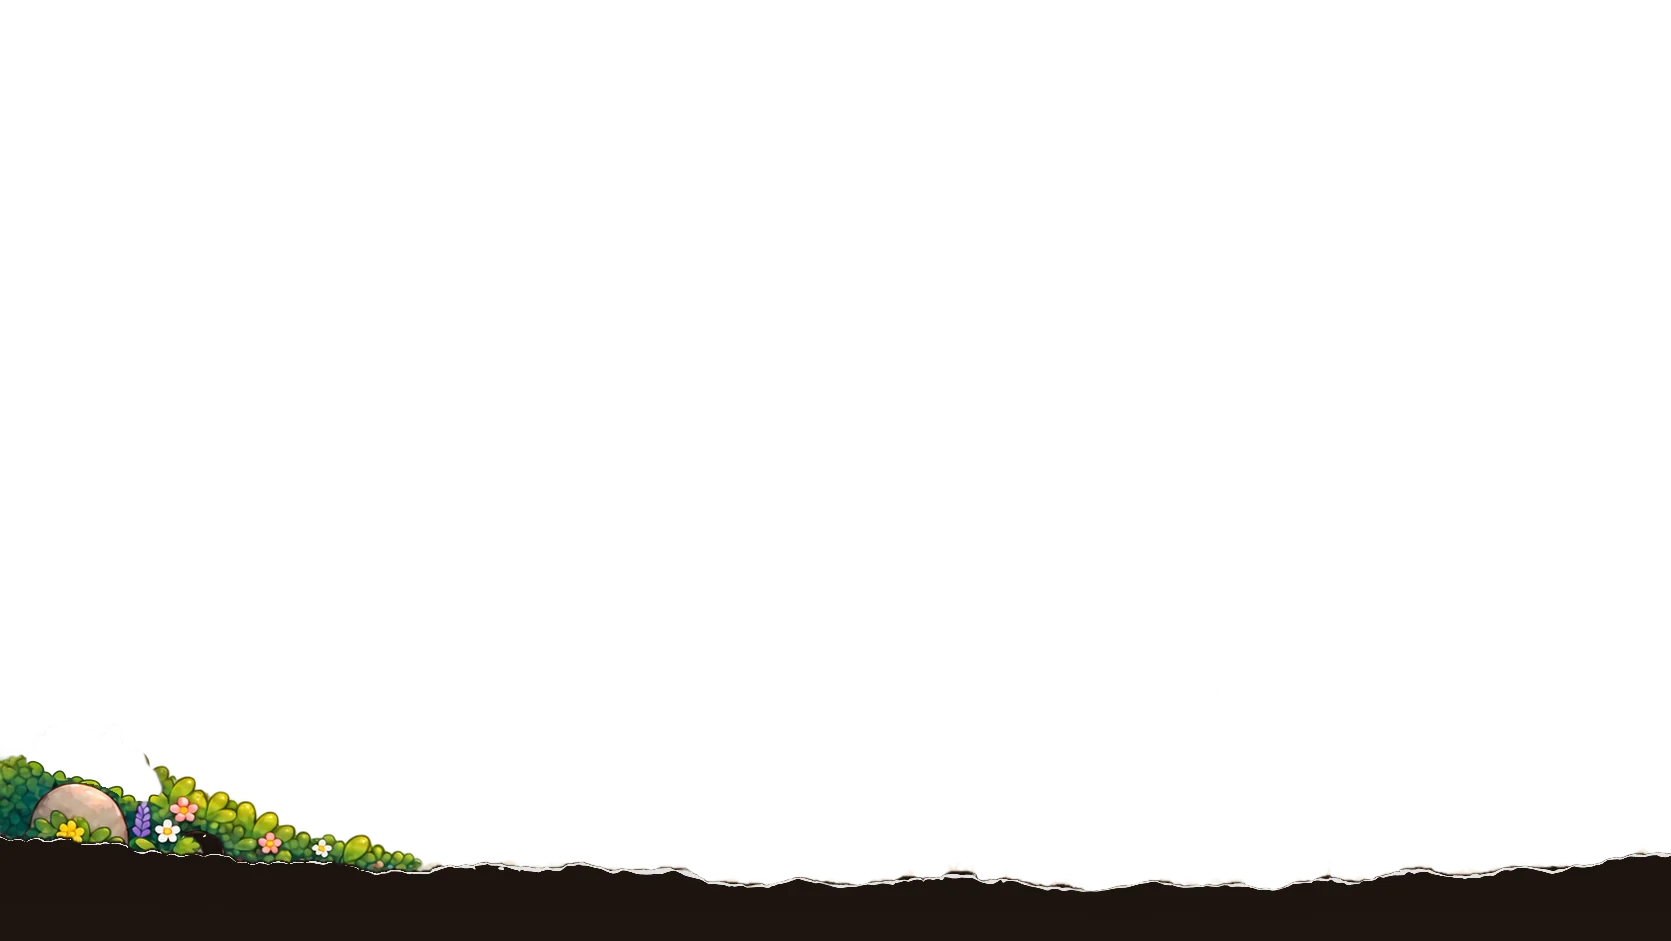
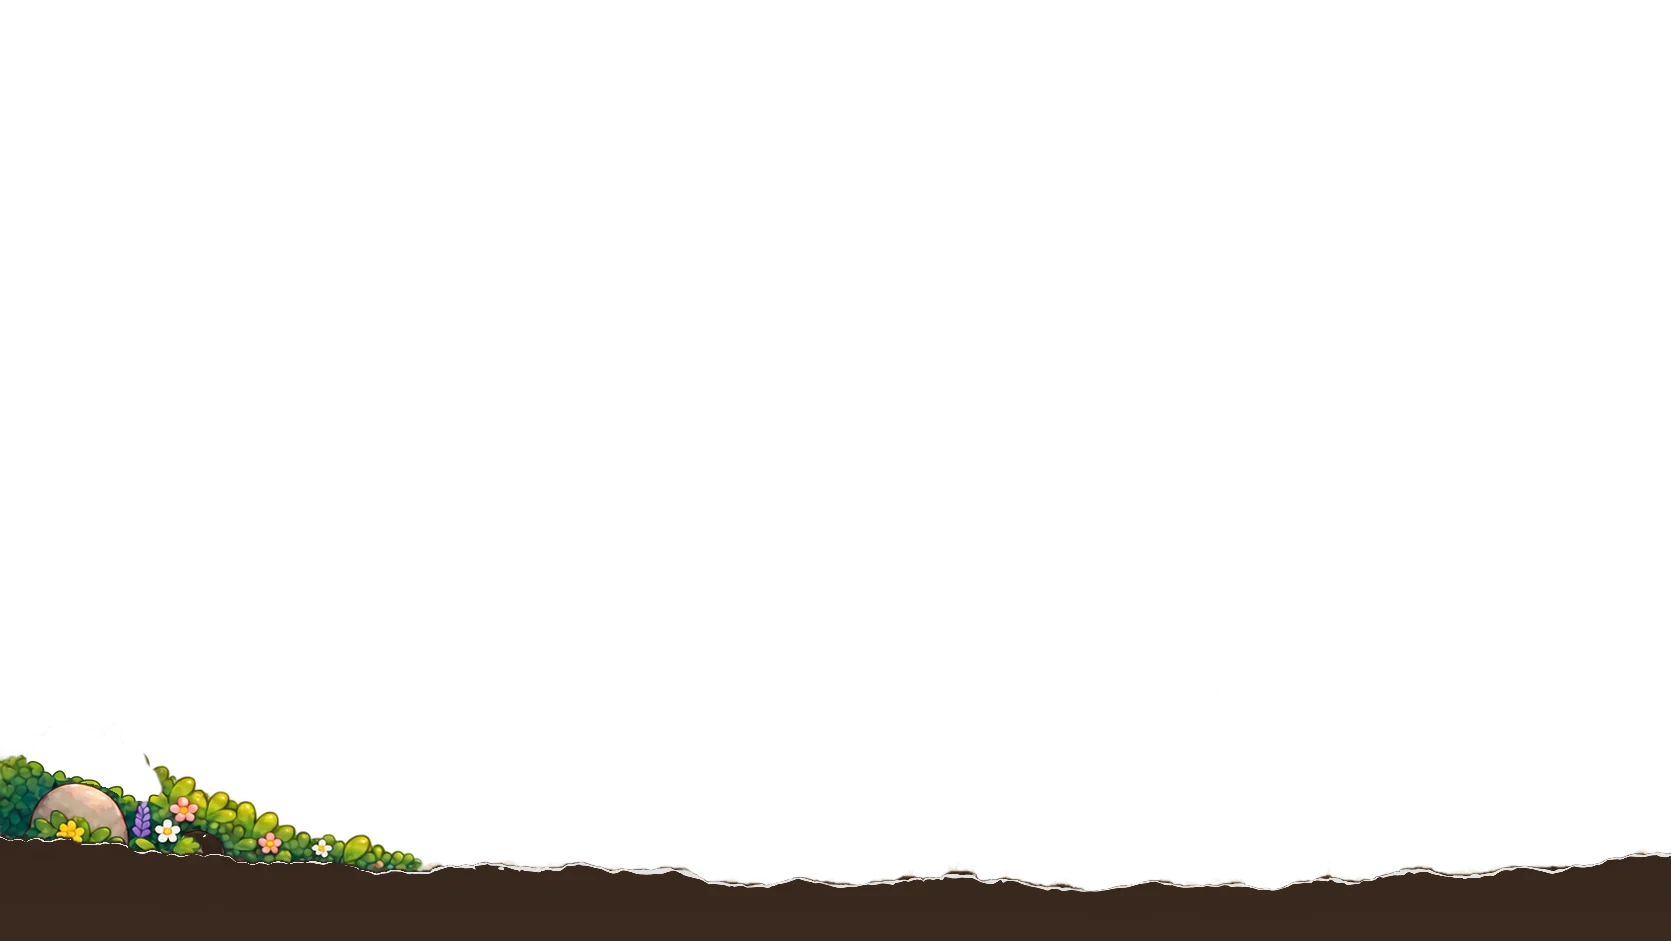
style(home): lighten night mode to a soft evening brown
Page, cards and section backgrounds are a few steps lighter, and the
night paintings use a gentler grade to match.

Changed region(s): [[0.0, 0.8937, 1.0, 1.0]]

diff --git a/index.html b/index.html
@@ -2703,19 +2703,19 @@ assign art = '/assets/images/Redesign/' | relative_url %}
       }
       html[data-mode="night"] {
         color-scheme: dark;
-        --paper: #1e1510; /* espresso page */
-        --night-page: #1e1510; /* = --paper; .hero pins --paper back to cream, so the hero reads this one */
-        --paper-2: #271b14;
-        --ink: #f8ebd6;
-        --ink-soft: #dac6ab;
+        --paper: #3a2a20; /* soft evening brown */
+        --night-page: #3a2a20; /* = --paper; .hero pins --paper back to cream, so the hero reads this one */
+        --paper-2: #443226;
+        --ink: #fcf1df;
+        --ink-soft: #ead8bf;
         --accent: #ffa04a;
-        --line: #46342a;
-        --surface: #2a1e16;
-        --surface-top: #36281e; /* cards catch a little lamplight at the top */
-        --surface-sunk: #170f0b;
-        --border: #46342a;
-        --border-strong: #6e5442;
-        --ink-muted: #c2ab90;
+        --line: #5f4737;
+        --surface: #4a372a;
+        --surface-top: #574132; /* cards catch a little lamplight at the top */
+        --surface-sunk: #33251c;
+        --border: #5f4737;
+        --border-strong: #84654f;
+        --ink-muted: #d9c3a6;
         --fox: #ff9440;
         --accent-ink: #ffb370;
         --leaf: #c6de98;
@@ -2723,12 +2723,12 @@ assign art = '/assets/images/Redesign/' | relative_url %}
         --dusk: #a6d4dc;
         --dusk-tint: rgb(120 185 200 / 0.15);
         --fox-tint: rgb(255 150 70 / 0.16);
-        --night: #110b07;
+        --night: #241912;
         --fox-on-night: #ffa04a;
-        --ring: #5e4433;
-        --glow: rgb(255 168 84 / 0.09); /* lamplight pooled over each scene */
-        --shadow-1: 0 1px 2px rgb(8 4 2 / 0.45), 0 2px 8px rgb(8 4 2 / 0.35);
-        --shadow-2: 0 2px 4px rgb(8 4 2 / 0.45), 0 12px 28px rgb(8 4 2 / 0.6);
+        --ring: #7a5b45;
+        --glow: rgb(255 168 84 / 0.12); /* lamplight pooled over each scene */
+        --shadow-1: 0 1px 2px rgb(20 12 6 / 0.35), 0 2px 8px rgb(20 12 6 / 0.25);
+        --shadow-2: 0 2px 4px rgb(20 12 6 / 0.35), 0 12px 28px rgb(20 12 6 / 0.45);
       }
       html[data-mode="night"] .hero {
         color-scheme: light;
